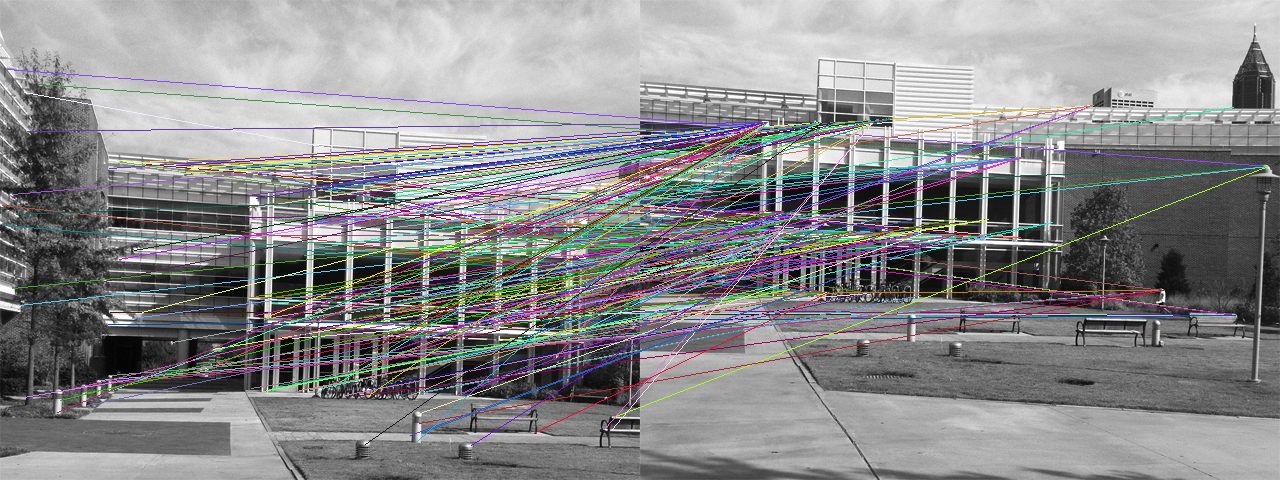
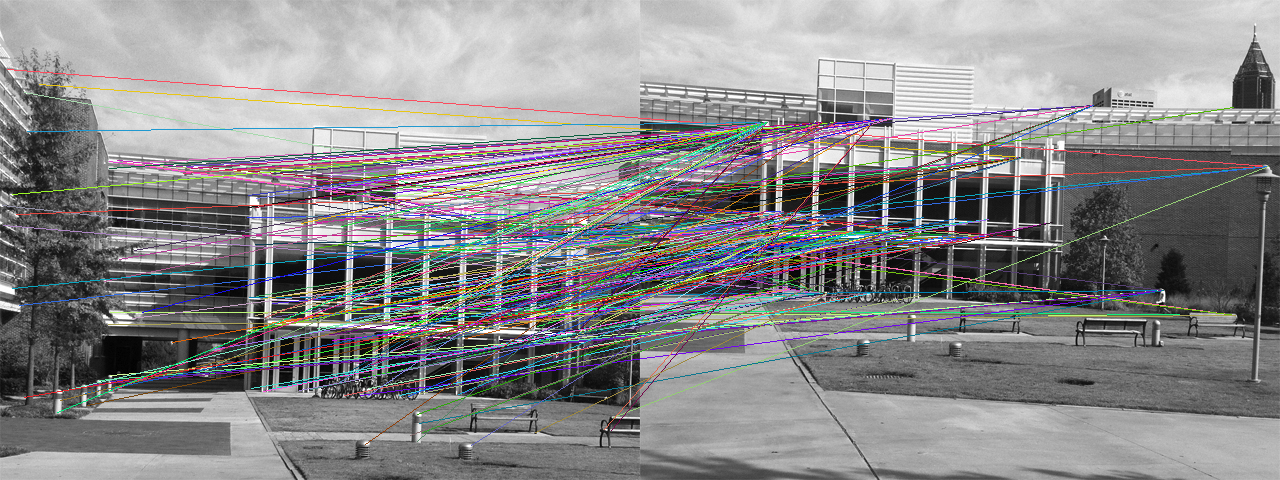
add more test data, check warping with cv2
works pretty good :)

diff --git a/ps4/ps4.py b/ps4/ps4.py
@@ -153,19 +153,20 @@ def task3_a():
     cv2.imwrite("output/ransac/transA_outliers.png", match_img)
 
 
-def task3_a2():  # TODO
+def task3_a2():
     transA = cv2.imread("input/check.bmp")
     transB = cv2.imread("input/check_rot.bmp")
     matches, A_points, B_points = sift.calc_matching_pairs(("check", "check_rot"), (transA, transB))
     np.save("output/matches/check.txt", matches)
     np.save("output/matches/check_points", A_points)
     np.save("output/matches/check_rot_points", B_points)
-    best_transform, inliers, outliers = ransac.ransac_transform(matches, pointsA=A_points, pointsB=B_points,
-                                                                tolerance=5000)
-    match_img = cv2.drawMatches(transA, A_points, transB, B_points, list(inliers), None)
-    cv2.imwrite("output/ransac/check_inliers.png", match_img)
-    match_img = cv2.drawMatches(transA, A_points, transB, B_points, list(outliers), None)
-    cv2.imwrite("output/ransac/check_outliers.png", match_img)
+    for tolerance in [200]:
+        best_transform, inliers, outliers, M = ransac.ransac_similarity(matches, pointsA=A_points, pointsB=B_points,
+                                                                    tolerance=tolerance)
+        match_img = cv2.drawMatches(transA, A_points, transB, B_points, list(inliers), None)
+        cv2.imwrite("output/ransac/check/check_inliers" + str(tolerance) + ".png", match_img)
+        match_img = cv2.drawMatches(transA, A_points, transB, B_points, list(outliers), None)
+        cv2.imwrite("output/ransac/check/check_outliers" + str(tolerance) + ".png", match_img)
 
 
 def task3_b():
@@ -182,15 +183,26 @@ def task3_b():
         A_points = np.load("output/matches/simA_points")
         B_points = np.load("output/matches/simB_points")
 
-    for tolerance in [10000, 5000, 4000, 3000, 2000, 1000, 500, 200]:
-        best_transform, inliers, outliers = ransac.ransac_similarity(matches, pointsA=A_points, pointsB=B_points,
+    for tolerance in [10000, 5000, 2000, 700, 200]:
+        best_transform, inliers, outliers, M = ransac.ransac_similarity(matches, pointsA=A_points, pointsB=B_points,
                                                                     tolerance=tolerance)
         match_img = cv2.drawMatches(transA, A_points, transB, B_points, list(inliers), None)
         cv2.imwrite("output/ransac/simA_inliers" + str(tolerance) + ".png", match_img)
         match_img = cv2.drawMatches(transA, A_points, transB, B_points, list(outliers), None)
         cv2.imwrite("output/ransac/simB_outliers" + str(tolerance) + ".png", match_img)
+        a, b , _ = transB.shape
+        mixed = np.zeros_like(transA)
 
+        transA_grey = cv2.cvtColor(transA, cv2.COLOR_BGR2GRAY)
+        transB_grey = cv2.cvtColor(transB, cv2.COLOR_BGR2GRAY)
+
+        warped = cv2.warpAffine(transB_grey, M, (b, a), flags=cv2.WARP_INVERSE_MAP)
+        cv2.imwrite("output/ransac/simB_warped" + str(tolerance) + ".png", warped)
+        mixed[:,:,0] = transA_grey
+        mixed[:,:,1] = warped
+        cv2.imwrite("output/ransac/sim_merged" + str(tolerance) + ".png", mixed)
 
 # task1_a()
-# task2_b()
+#task2_b()
+#task3_a2()
 task3_b()

diff --git a/ps4/ransac.py b/ps4/ransac.py
@@ -37,7 +37,6 @@ def ransac_get_inliers(matched_keypoints,
     best_transform = None
     inliers, outliers = {}, {}
     N = np.inf
-    abort_printed = False
     while N > num_samples:
         # get samples
         matches = np.random.choice(matched_keypoints, num_samples_per_draw, replace=True)
@@ -56,11 +55,7 @@ def ransac_get_inliers(matched_keypoints,
             # update N
             outlier_percentage = len(outliers) / (len(inliers) + len(outliers))
             print("new outlier percentage:", outlier_percentage)
-            N = calc_N(desired_confidence, outlier_percentage, 2)
-        if N <= num_samples and not abort_printed:
-            print("would have aborted after", num_samples, "iterations")
-            print("with num inliers:", len(best_inliers), "of", len(matched_keypoints))
-            abort_printed = True
+            N = calc_N(desired_confidence, outlier_percentage, num_samples_per_draw * 2)
     print("found result after", num_samples, "iterations")
     print("num inliers:", len(best_inliers), "of", len(matched_keypoints))
     return best_match, best_transform, best_inliers, best_outliers
@@ -199,4 +194,6 @@ def ransac_similarity(matched_keypoints,
                                                                        tolerance=tolerance)
     best_transform, M = similarity_from_inliers(inliers, pointsA, pointsB)
     print(M)
-    return best_transform, inliers, outliers
+    inliers, outliers = calc_inliers_outliers(best_transform, matched_keypoints, pointsA, pointsB, tolerance)
+    print("with the new ssd transform we get: (inliers / outliers", len(inliers), len(outliers))
+    return best_transform, inliers, outliers, M

diff --git a/ps4/warp.py b/ps4/warp.py
@@ -1,0 +1,8 @@
+import numpy as np
+import cv2
+
+def warp_image(M, img):
+    print("not implemented")
+    exit(-1)
+
+
